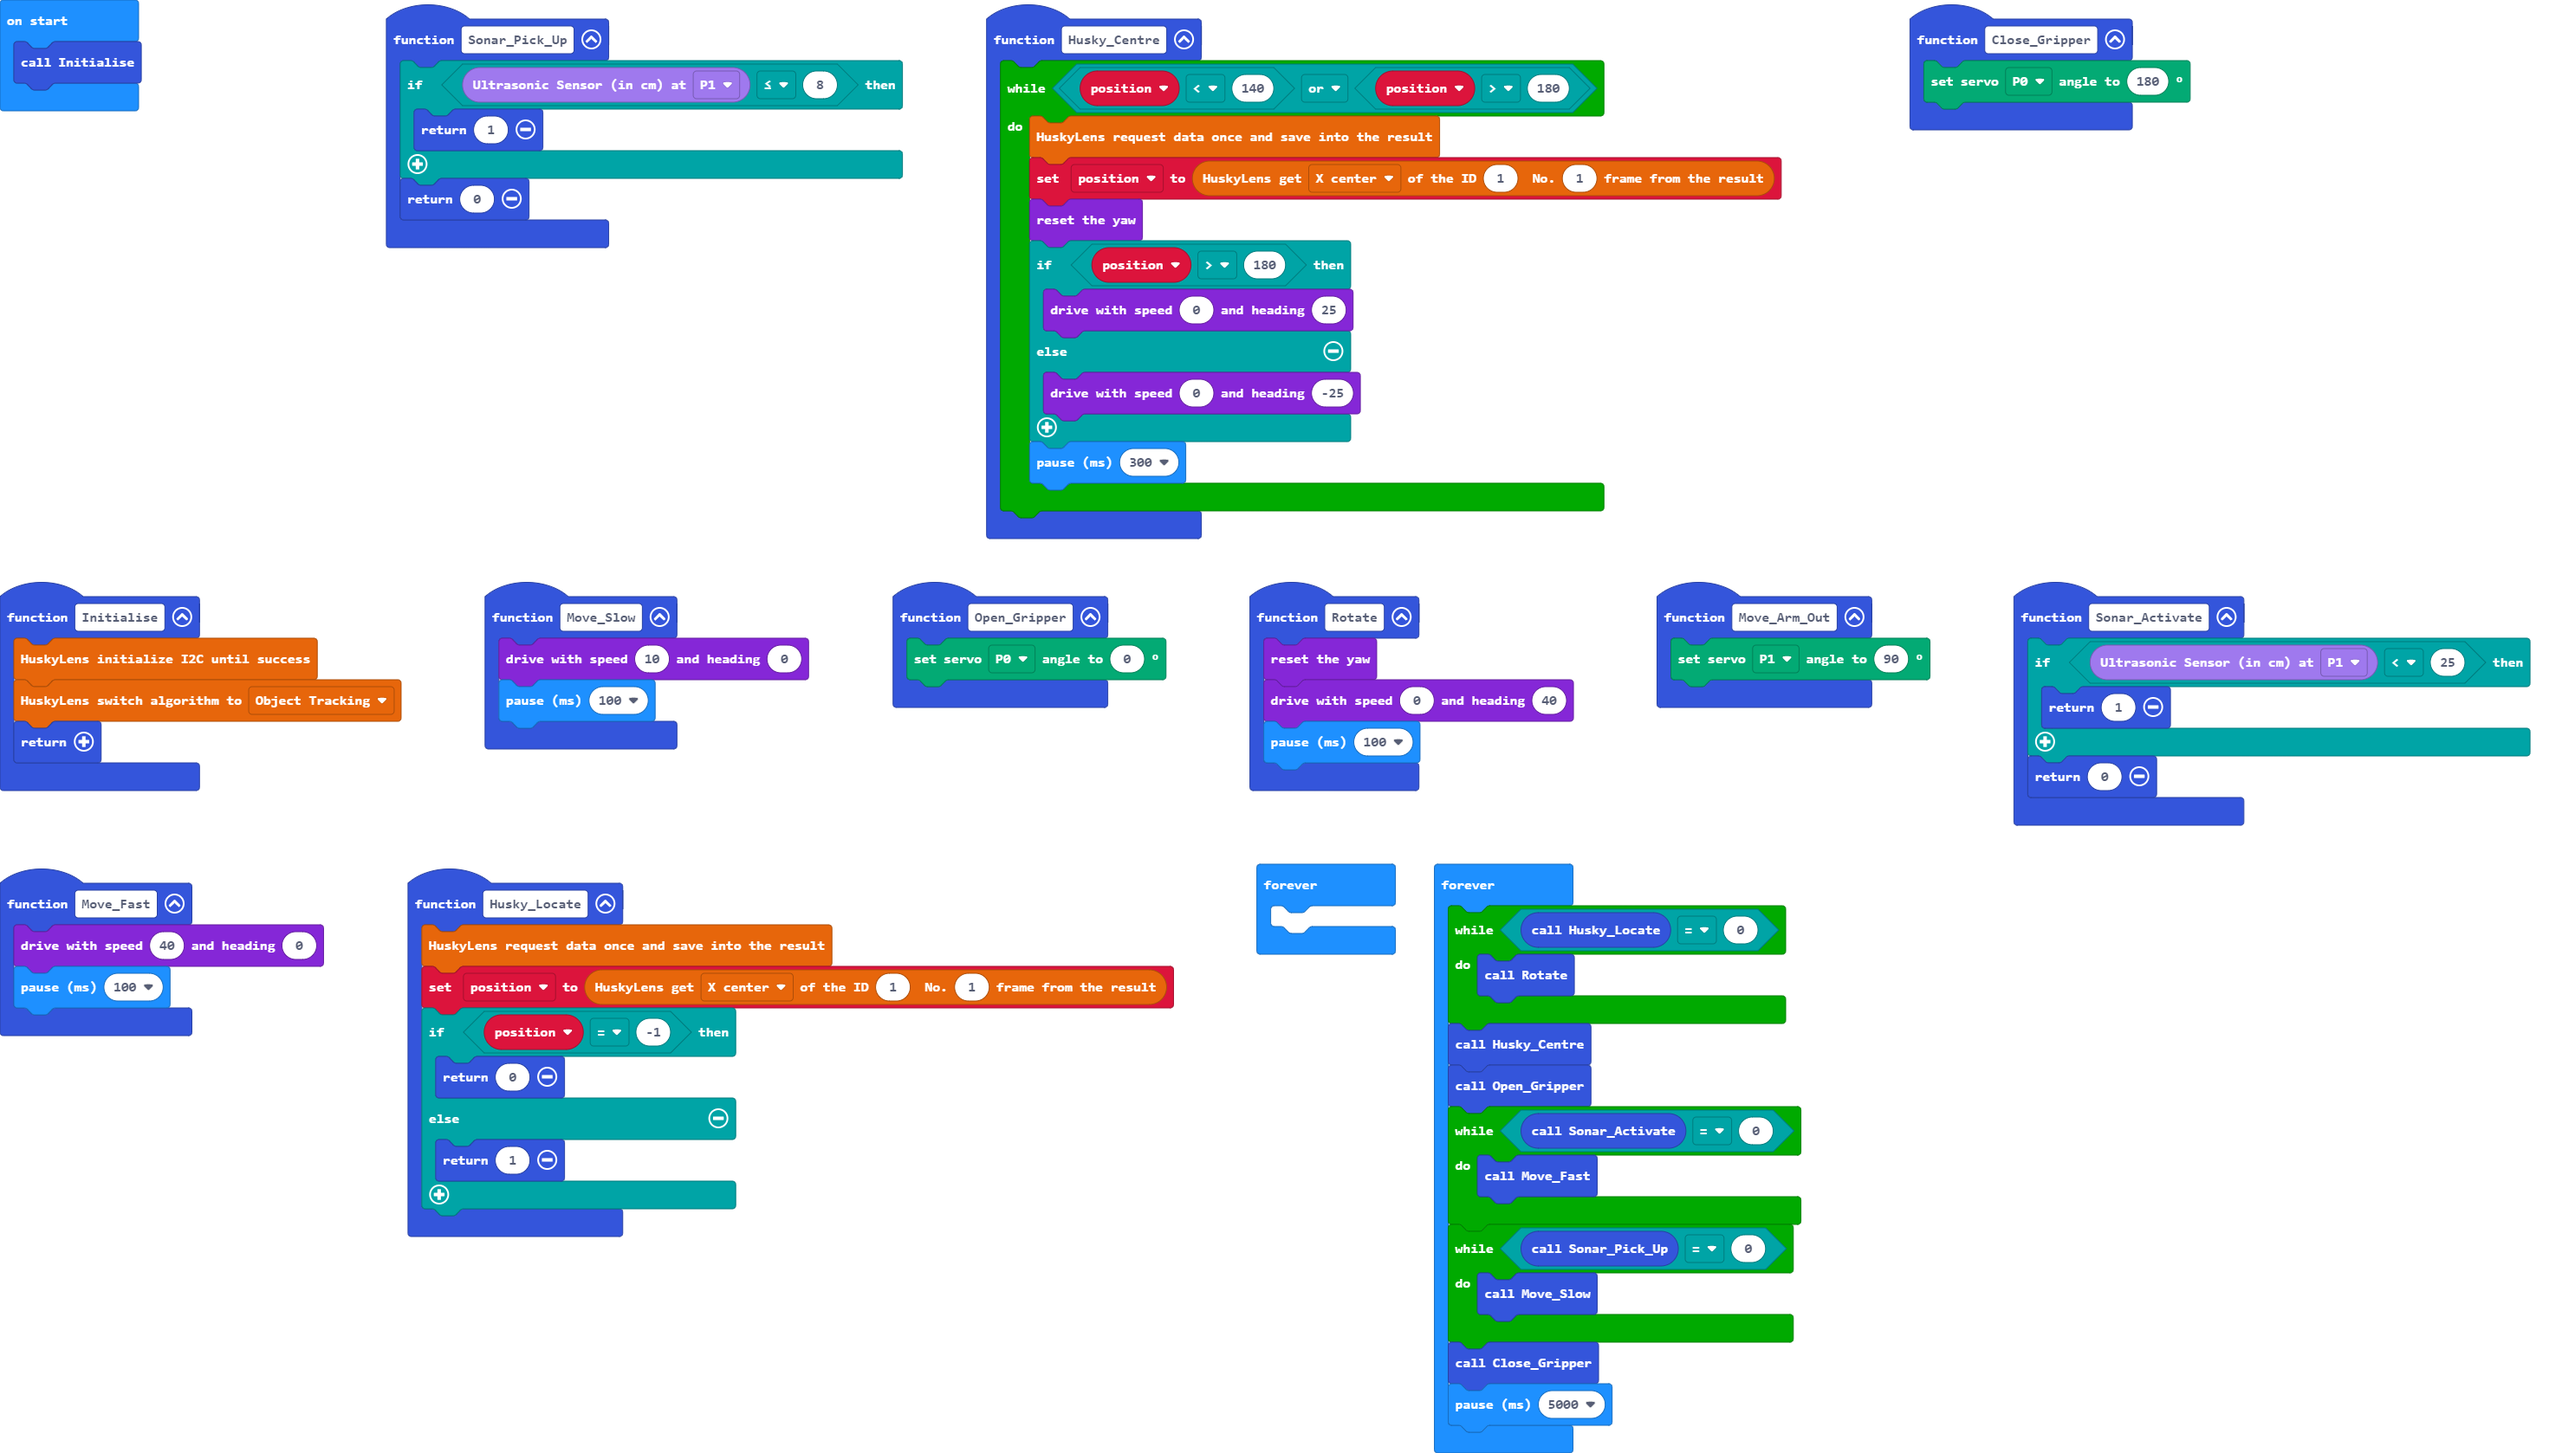
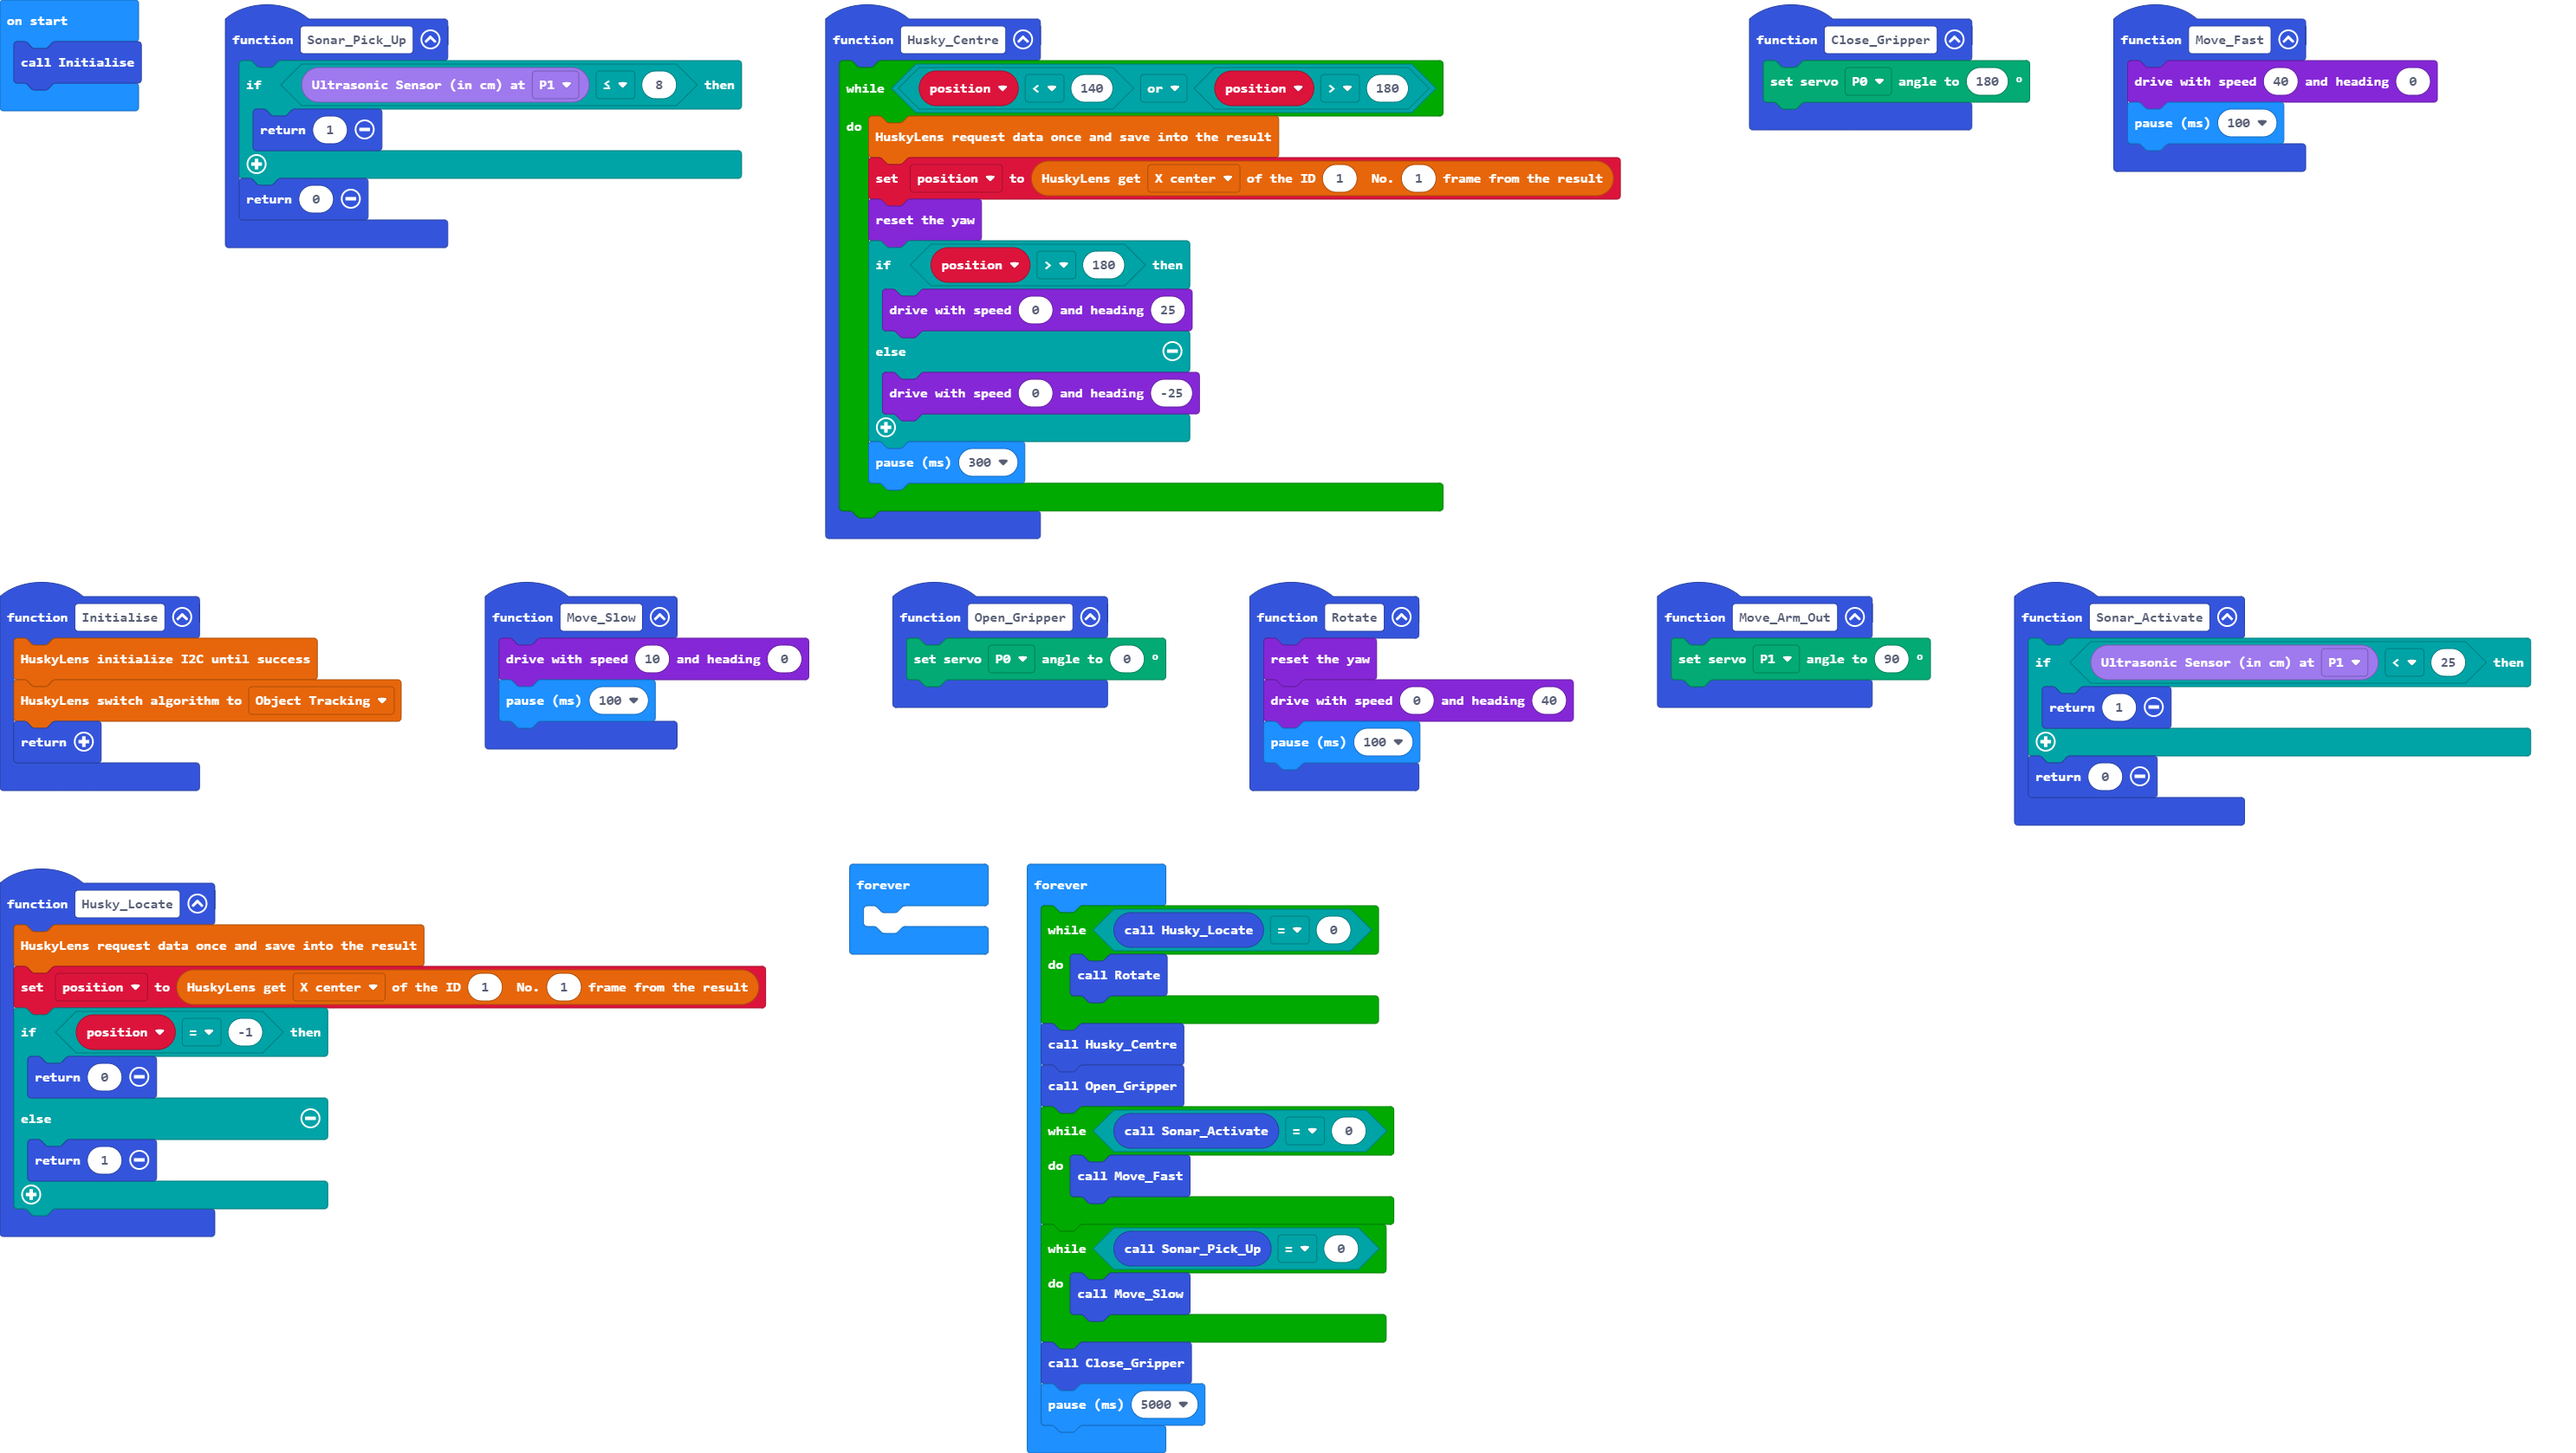
Update main.blocks, main.ts, custom.ts

diff --git a/custom.ts b/custom.ts
@@ -23,8 +23,8 @@ namespace MTS_Sphero_Rover {
      * @param e describe parameter here
      */
     //% block
-    export function foo(n: number, s: string, e: MyEnum): void {
-        // Add code here
+    export function Move_Arm_In(): void {
+        servos.P1.setAngle(0)
     }
 
     /**
